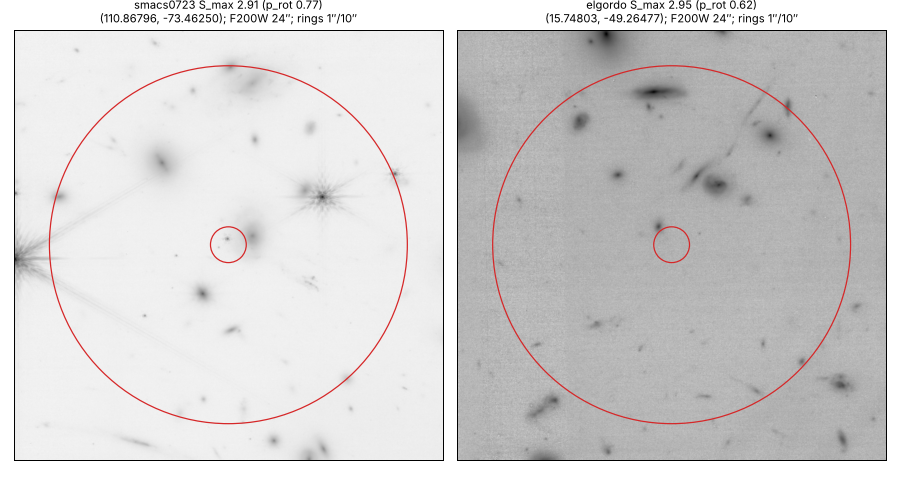
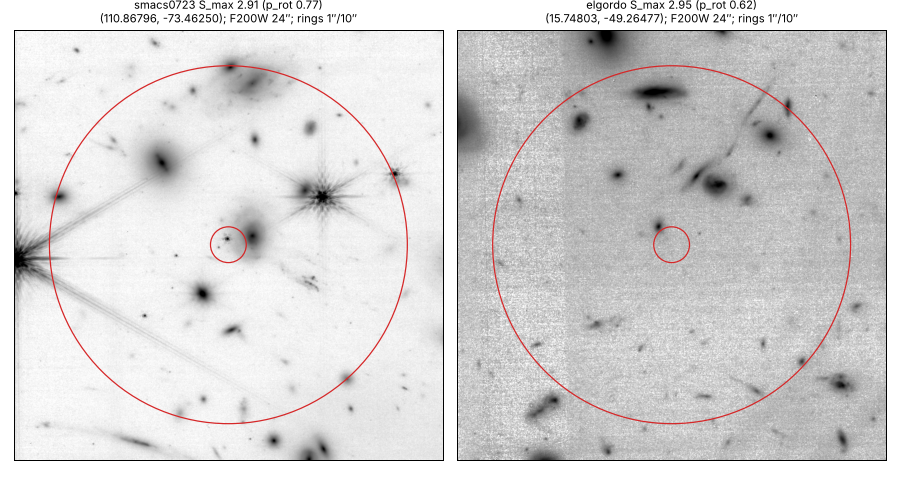
W1 SMACS/El Gordo: review fixes (seven DEFAULT_FIELDS, legacy screen options with a test, sheet script, doc ranking)
Claude-Session: https://claude.ai/code/session_01YMtpVC7A3AdsQ996afrTpW

diff --git a/scripts/w1_smax_sheet.py b/scripts/w1_smax_sheet.py
@@ -4,8 +4,9 @@
         FIELD=SUMMARY_JSON=I2D_URI[=GAIA_ECSV] [FIELD=...]
 
 ``SUMMARY_JSON`` is an ``inject_shear.py`` per-field summary (its ``screen.s_max_radec``);
-``I2D_URI`` a level-3 ``_i2d.fits`` (S3 byte-range read). Rings mark 1″ and the 10″ aperture;
-cyan crosses are Gaia stars of the spike veto. Display only (``observed`` pixels).
+``I2D_URI`` a level-3 ``_i2d.fits`` (S3 byte-range read). No part may contain ``=``. Rings mark
+1″ and the 10″ aperture; cyan crosses are Gaia stars of the spike veto.
+Display only (``observed`` pixels).
 """
 
 from __future__ import annotations
@@ -25,7 +26,7 @@ from astropy.table import Table  # noqa: E402
 from astropy.wcs import WCS  # noqa: E402
 from astropy.wcs.utils import proj_plane_pixel_scales  # noqa: E402
 
-from jwst_anomaly import cutouts  # noqa: E402
+from jwst_anomaly import cutouts, viz  # noqa: E402
 
 
 def main(argv: list[str] | None = None) -> int:
@@ -36,7 +37,10 @@ def main(argv: list[str] | None = None) -> int:
     args = ap.parse_args(argv)
     fig, axs = plt.subplots(1, len(args.fields), figsize=(5 * len(args.fields), 5.4), squeeze=False)
     for ax, spec in zip(axs[0], args.fields, strict=True):
-        name, summary, uri, *gaia = spec.split("=")
+        parts = spec.split("=")
+        if len(parts) not in (3, 4):
+            raise SystemExit(f"expected FIELD=SUMMARY_JSON=I2D_URI[=GAIA_ECSV], got {spec!r}")
+        name, summary, uri, *gaia = parts
         s = json.loads(Path(summary).read_text())["screen"]
         ra, dec = s["s_max_radec"]
         tg = Table({"source_uid": [f"{name}_smax"], "ra": [ra], "dec": [dec]})
@@ -51,8 +55,7 @@ def main(argv: list[str] | None = None) -> int:
             with fits.open(cut["path"][0]) as h:
                 img = h["SCI"].data.astype(float)
                 w = WCS(h["SCI"].header)
-        lo, hi = np.nanpercentile(img, [5, 99.5])
-        ax.imshow(np.arcsinh((img - lo) / (hi - lo) * 10), origin="lower", cmap="gray_r")
+        ax.imshow(img, origin="lower", cmap="gray_r", norm=viz.normalize(img))
         px = 1 / (proj_plane_pixel_scales(w)[0] * 3600)
         cy, cx = (np.array(img.shape) - 1) / 2
         for r in (1, 10):
@@ -60,7 +63,7 @@ def main(argv: list[str] | None = None) -> int:
         if gaia:
             g = Table.read(gaia[0])
             x, y = w.world_to_pixel_values(g["ra"], g["dec"])
-            ok = (x > 0) & (y > 0) & (x < img.shape[1]) & (y < img.shape[0])
+            ok = (x > -0.5) & (y > -0.5) & (x < img.shape[1] - 0.5) & (y < img.shape[0] - 0.5)
             ax.plot(x[ok], y[ok], "c+", ms=12)
         ax.set_title(
             f"{name} S_max {s['s_max']:.2f} (p_rot {s['p_random_max']:.2f})\n"

diff --git a/scripts/inject_shear.py b/scripts/inject_shear.py
@@ -54,9 +54,19 @@ ir = _load("inject_radial")
 es = ir.es
 
 SHEAR_DEFAULTS = es.shear_defaults()
-# fields with public photo-z (DJA v7.4/v7.0 tarballs for SMACS and El Gordo 404 on 2026-10-08, so
-# they have no photo-z here and stay out of the headline)
-DEFAULT_FIELDS = ("abell2744", "macs0416", "macs1149", "abell370", "abells1063")
+# fields with public photo-z (SMACS and El Gordo added 2026-10-17: their DJA tarballs answer again)
+DEFAULT_FIELDS = (
+    "abell2744",
+    "macs0416",
+    "macs1149",
+    "abell370",
+    "abells1063",
+    "smacs0723",
+    "elgordo",
+)
+# Screen options added after summaries were first committed, with the value those runs used
+# (before the option existed). A summary without the key is read with this value.
+LEGACY_SCREEN_OPTIONS = {"psf_chi": [0.0, 0.0], "min_coverage": 0.0}
 # Shear-only inputs that differ from the radial screen's FIELDS entry. The shear screen needs
 # photo-z (cluster shear at each row's z), so Abell S1063 uses the DJA v7.5 zout here
 # (docs/fields/abells1063.md), with the Gaia spike veto (D-043).
@@ -315,6 +325,16 @@ def run_field(name: str, args) -> dict:
     return summary
 
 
+def setting(summary: dict) -> dict:
+    """A summary's screen settings that must agree across combined fields: the grid half-width and
+    star table are per field; options missing from older summaries take their legacy value."""
+    a = json.loads(json.dumps(summary["assumptions"]))
+    a["screen"].pop("max_radius", None)
+    a.pop("spike_stars", None)
+    a["screen"] = {**LEGACY_SCREEN_OPTIONS, **a["screen"]}
+    return a
+
+
 def main(argv: list[str] | None = None) -> int:
     ap = argparse.ArgumentParser(description=__doc__.split("\n\n")[0])
     ap.add_argument("--fields", nargs="+", default=list(DEFAULT_FIELDS), choices=sorted(ir.FIELDS))
@@ -359,15 +379,6 @@ def main(argv: list[str] | None = None) -> int:
     else:
         summaries = [run_field(f, args) for f in args.fields]
     combined = ir.combine(summaries, args.mass, {f: field_spec(f) for f in args.fields})
-
-    def setting(s):  # grid half-width and star table are per field; everything else must agree
-        a = json.loads(json.dumps(s["assumptions"]))
-        a["screen"].pop("max_radius", None)
-        a.pop("spike_stars", None)
-        # options added after older summaries were written: absent means their default
-        a["screen"].setdefault("psf_chi", [0.0, 0.0])
-        a["screen"].setdefault("min_coverage", SHEAR_DEFAULTS["min_coverage"])
-        return a
 
     if len({json.dumps(setting(s), sort_keys=True) for s in summaries}) != 1:
         ap.error("the fields were run with different screen settings; re-run them alike")

diff --git a/scripts/w1_edge_cut.py b/scripts/w1_edge_cut.py
@@ -31,6 +31,8 @@ COMMITTED = {  # the committed c = 0 runs the reproduction check compares with
     "macs1149": "results/w1_shear_s1063/rerun_4fields/macs1149_summary.json",
     "abells1063": "results/w1_shear_s1063/inject_summary_abells1063.json",
 }
+# the five fields this test ran on (inject_shear.DEFAULT_FIELDS before SMACS and El Gordo joined)
+FIELDS = ("abell2744", "macs0416", "macs1149", "abell370", "abells1063")
 
 
 def recoveries(summary: dict) -> dict[str, int]:
@@ -54,7 +56,7 @@ def eb_pass(screen: dict) -> bool:
 
 def cmd_decide(args) -> dict:
     out = {"fields": {}, "reproduces_committed": True}
-    for f in ish.DEFAULT_FIELDS:
+    for f in FIELDS:
         off = json.loads((args.off / f / "summary.json").read_text())
         on = json.loads((args.on / f / "summary.json").read_text())
         ref = json.loads(Path(COMMITTED[f]).read_text())
@@ -87,7 +89,7 @@ def cmd_decide(args) -> dict:
 
 def cmd_diagnose(args) -> dict:
     out = {"min_coverage_tested": args.min_coverage, "provenance": "derived", "fields": {}}
-    for f in ish.DEFAULT_FIELDS:
+    for f in FIELDS:
         spec = ish.field_spec(f)
         model, shapes, extra, _, _ = ir.load_field(f, args.work / f, spec)
         sargs = SimpleNamespace(**ish.SHEAR_DEFAULTS)

diff --git a/tests/test_inject_shear.py b/tests/test_inject_shear.py
@@ -143,3 +143,21 @@ def test_painted_images_on_a_spike_axis_are_vetoed_like_real_segments():
         }
     )
     np.testing.assert_array_equal(inj.spike_veto(img), [True, False, False])
+
+
+def test_setting_reads_missing_options_as_legacy_values():
+    old = {"assumptions": {"screen": {"aperture_arcsec": 10.0, "max_radius": 100.0}}}
+    new = {
+        "assumptions": {
+            "screen": {
+                "aperture_arcsec": 10.0,
+                "max_radius": 60.0,
+                "psf_chi": [0.0, 0.0],
+                "min_coverage": 0.0,
+            },
+            "spike_stars": 25,
+        }
+    }
+    assert ish.setting(old) == ish.setting(new)
+    cut = {"assumptions": {"screen": {**new["assumptions"]["screen"], "min_coverage": 0.5}}}
+    assert ish.setting(old) != ish.setting(cut)

diff --git a/CHANGELOG.md b/CHANGELOG.md
@@ -8,8 +8,9 @@ Newest first. Results, failed approaches and the handoff state; not a diary.
   p_rot 0.77 / 0.62, below the rotation-null median: null. Injections 11 / 62 / 106 (SMACS) and 0 / 14 / 48 (El
   Gordo) of 200 at 2 × 10¹² / 8 × 10¹² / 2 × 10¹³ M☉. Seven fields, 43.7 arcmin²: Σ(W1) < 5.3 × 10³ / 9.6 × 10² /
   5.0 × 10² deg⁻² (was 5.8 × 10³ / 1.1 × 10³ / 5.7 × 10²). S_max cutouts looked at (`sheet_smax.png`).
-- **New:** `SHEAR_FIELD_OVERRIDES` for both fields (Gaia veto); `--combine-only` treats screen options missing from
-  older summaries as defaults (Abell 2744 re-run reproduces exactly); `scripts/w1_smax_sheet.py`.
+- **New:** `SHEAR_FIELD_OVERRIDES` for both fields (Gaia veto); `DEFAULT_FIELDS` now seven; `--combine-only` reads screen
+  options missing from older summaries as their legacy values (Abell 2744 re-run reproduces exactly);
+  `scripts/w1_smax_sheet.py`.
 - **Handoff:** W1 next: MACS0717 needs a photo-z; streak veto (S1063, and the SMACS S_max aperture has spike
   streaks); PSF-weighted moments for the floor (reuse-check GalSim HSM first).
 

diff --git a/results/w1_shear_smacs_elgordo/RESULT.md b/results/w1_shear_smacs_elgordo/RESULT.md
@@ -39,7 +39,9 @@ Screened area 2.99 arcmin² (SMACS, 60″ grid half-width) and 4.83 arcmin² (El
 
 ## Seven-field limits (`combined_7fields.json`; 43.7 arcmin²)
 - The five earlier fields enter from their committed summaries (`results/w1_shear_s1063/`). They predate two screen
-  options (`psf_chi`, `min_coverage`); `inject_shear.py --combine-only` now reads a missing option as its default.
+  options (`psf_chi`, `min_coverage`); `inject_shear.py --combine-only` now reads a missing option as the value
+  those runs used (`LEGACY_SCREEN_OPTIONS`: isotropic PSF, no coverage cut). `DEFAULT_FIELDS` now holds all seven, so
+  `inject_shear.py --combine-only --out <dir>` rebuilds `combined_7fields.json` (checked, equal).
   Check (deviation from the plan, added): Abell 2744 re-run with the current code reproduces its committed
   recoveries, S_max and area exactly (`rerun_abell2744_summary.json`); `min_coverage` 0 had already reproduced all
   five fields (`results/w1_edge_cut`).

diff --git a/DECISIONS.md b/DECISIONS.md
@@ -3199,7 +3199,7 @@ so the radial FIELDS entry (no photo-z, D-049 headline) stays as it was. Five-fi
 HTTP 200 and match SOURCES.md. The screen runs on both (Gaia spike veto at the model centre; D-053 defaults): null
 (S_max 2.91 / 2.95, p_rot 0.77 / 0.62, both below the rotation-null median). R 0.438 / 0.486. Seven-field limits
 5.3 × 10³ / 9.6 × 10² / 5.0 × 10² deg⁻². `--combine-only` reads screen options missing from older summaries as
-their defaults (an Abell 2744 re-run reproduces its committed summary exactly). Evidence:
+the values those runs used (an Abell 2744 re-run reproduces its committed summary exactly). Evidence:
 `results/w1_shear_smacs_elgordo/RESULT.md`.
 
 **Addendum 2026-10-17 (aperture-coverage cut not adopted).** Dropping grid centres whose aperture annulus is

diff --git a/docs/exotic_limits.md b/docs/exotic_limits.md
@@ -279,8 +279,8 @@ these two are not stored (—).
 | 8 × 10¹² | 5.4–7.2″ | 72 | 50 | 30 | 45 | 69 | 62 | 14 | 84 / 1600 |
 | 2 × 10¹³ | 8.5–11.4″ | 146 | 112 | 74 | 73 | 91 | 106 | 48 | 156 / 1600 |
 
-MACS1149 is lowest (fewest sources per arcsec²). Before the spike veto, with the rotation null alone, the four
-fields recovered 66, 309 and 486 of 800 at the top three masses (biased high by the spike systematics).
+El Gordo is lowest (cause not measured), then MACS1149 (fewest sources per arcsec² of the first five).
+Before the spike veto, with the rotation null alone, the four fields recovered 66, 309 and 486 of 800 at the top three masses (biased high by the spike systematics).
 
 ### Upper limits (95 %, zero detections; `derived`; seven photo-z fields, 43.7 arcmin²)
 
